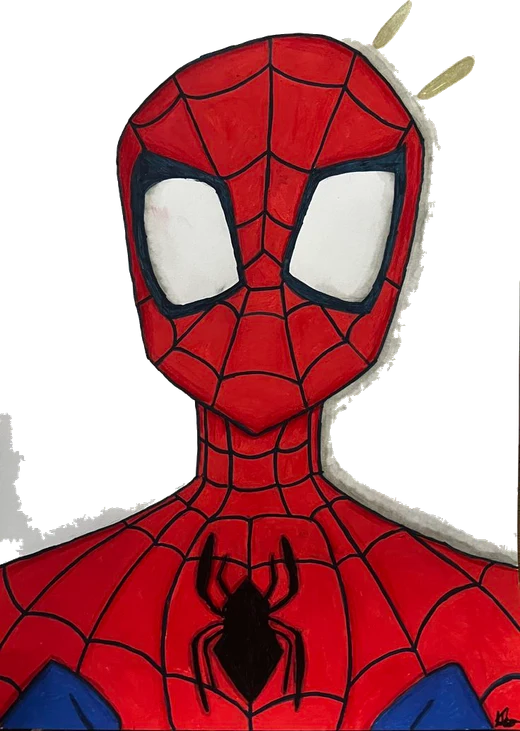
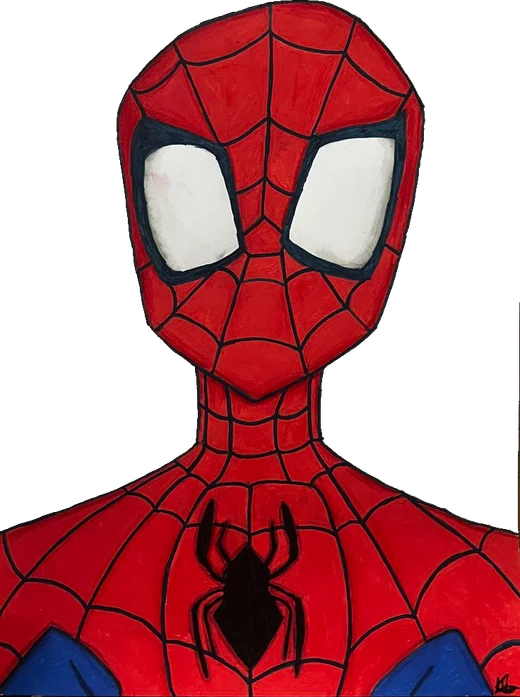
Spide deco: cleaner bg cutout (halo removed), straight, bottom edge flush to screen

diff --git a/src/styles/layout.css b/src/styles/layout.css
@@ -52,13 +52,13 @@
   filter: drop-shadow(0 6px 16px rgba(255, 45, 79, 0.5));
 }
 
-/* Big Spider-Man cutout, dead-center behind all content. */
+/* Big Spider-Man cutout, dead-center behind content, standing on the bottom edge. */
 .spide-deco {
   position: fixed;
   left: 50%;
-  top: 50%;
-  transform: translate(-50%, -50%) rotate(5deg);
-  width: clamp(220px, 30vw, 400px);
+  bottom: 0;
+  transform: translateX(-50%);
+  width: clamp(240px, 34vw, 460px);
   height: auto;
   z-index: 1;
   pointer-events: none;

diff --git a/src/styles/mobile.css b/src/styles/mobile.css
@@ -32,7 +32,7 @@
   }
 
   .spide-deco {
-    width: clamp(150px, 42vw, 210px);
+    width: clamp(160px, 46vw, 230px);
     opacity: 0.65;
   }
 
